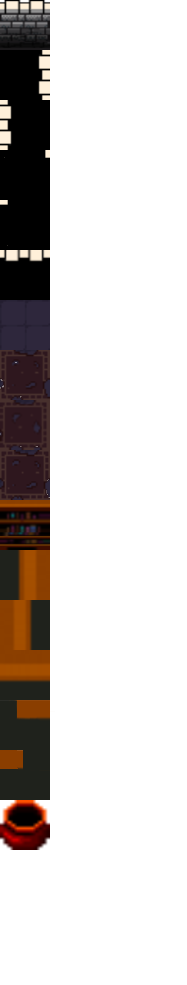
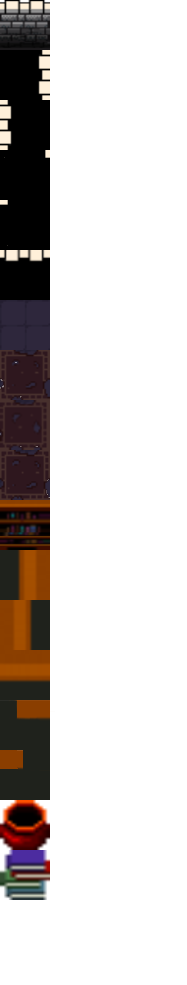
맵툴 오브젝트 말고 제작완료 -> 랜덤맵 생성 시작 예정

Changed region(s): [[0.0, 0.8528, 0.2674, 0.9137]]

diff --git a/Enter the Gungeon/InteractionObject.cpp b/Enter the Gungeon/InteractionObject.cpp
@@ -1,0 +1,87 @@
+#include "stdafx.h"
+#include "InteractionObject.h"
+
+InteractionObject::InteractionObject(MapObjectType type, const std::string& textureId, const std::string& n) :type(type), SpriteGo(textureId, n)
+{
+}
+
+InteractionObject::~InteractionObject()
+{
+}
+
+void InteractionObject::Init()
+{
+	switch (type)
+	{
+	case MapObjectType::None:
+		break;
+	case MapObjectType::WallTop:
+		break;
+	case MapObjectType::WallRight:
+		break;
+	case MapObjectType::WallLeft:
+		break;
+	case MapObjectType::WallCornerRight:
+		break;
+	case MapObjectType::WallCornerLeft:
+		break;
+	case MapObjectType::WallDown:
+		break;
+	case MapObjectType::NormalFloor1:
+		break;
+	case MapObjectType::NormalFloor2:
+		break;
+	case MapObjectType::NormalFloor3:
+		break;
+	case MapObjectType::NormalFloor4:
+		break;
+	case MapObjectType::LibraryTop:
+		break;
+	case MapObjectType::LibraryLeft:
+		break;
+	case MapObjectType::LibraryRight:
+		break;
+	case MapObjectType::LibraryDown:
+		break;
+	case MapObjectType::LibraryCornerLeft:
+		break;
+	case MapObjectType::LibraryCornerRight:
+		break;
+	case MapObjectType::Pot:
+		animation.AddClip(*RESOURCE_MGR.GetAnimationClip("Animations/Objects/Pot.csv"));
+		animation.AddClip(*RESOURCE_MGR.GetAnimationClip("Animations/Objects/PotBreak.csv"));
+		break;
+	case MapObjectType::Book1:
+		animation.AddClip(*RESOURCE_MGR.GetAnimationClip("Animations/Objects/Book1.csv"));
+		animation.AddClip(*RESOURCE_MGR.GetAnimationClip("Animations/Objects/Book1Break.csv"));
+		break;
+	default:
+		break;
+	}
+
+	animation.SetTarget(&sprite);
+	SpriteGo::Init();
+}
+
+void InteractionObject::Reset()
+{
+	SpriteGo::Reset();
+	animation.Play("Idle");
+}
+
+void InteractionObject::Update(float dt)
+{
+	SpriteGo::Update(dt);
+	animation.Update(dt);
+
+	if (INPUT_MGR.GetKeyDown(sf::Keyboard::Num1))
+	{
+		animation.Play("Break");
+	}
+
+}
+
+void InteractionObject::PlayAnimation(MapObjectType type)
+{
+
+}

diff --git a/Enter the Gungeon/Map/TileMap.cpp b/Enter the Gungeon/Map/TileMap.cpp
@@ -1,7 +1,7 @@
 #include "stdafx.h"
 #include "TileMap.h"
 
-TileMap::TileMap(const std::string& textureId, const std::string& n) :VertexArrayGo(textureId, n), scaleFactor({ 0.f,0.f })
+TileMap::TileMap(const std::string& textureId, const std::string& n) :VertexArrayGo(textureId, n)
 {
 	startPos = { 0, 0 };
 }
@@ -29,6 +29,13 @@ bool TileMap::Load(const std::string& filePath, bool textureIdIn)
 			std::string fileInfo = map.GetCell<std::string>(j, i + 4);
 			int texIndex = std::stoi(fileInfo);
 			tile.texIndex = texIndex;
+			size_t commaPos = fileInfo.find(',');
+			if (commaPos != std::string::npos)
+			{
+				std::string numberPart = fileInfo.substr(commaPos + 1);
+				int newTexIndex = std::stoi(numberPart);
+				tile.objectTypes = newTexIndex;
+			}
 			tiles.push_back(tile);
 		}
 	}
@@ -61,8 +68,6 @@ bool TileMap::Load(const std::string& filePath, bool textureIdIn)
 		{ tileSize.x, tileSize.y },
 		{ 0.f, tileSize.y }
 	};
-
-
 
 	for (int i = 0; i < size.y; ++i)
 	{

diff --git a/Enter the Gungeon/Map/Tile.h b/Enter the Gungeon/Map/Tile.h
@@ -1,22 +1,17 @@
 #pragma once
 #include "SpriteGo.h"
 
-struct TileInfo
-{
-	int x = 0;
-	int y = 0;
-	int texIndex = 0;
-	int objectIndex = 0;
-	float positionX;
-	float positionY;
-};
 
-class Tile : public SpriteGo
+class Tile : public SpriteGo 
 {
 protected:
-
+	sf::Vector2i size;
+	sf::Vector2f startPos;
+	std::string fileName;
+	
+	
 public:
-	Tile(const std::string& textureId = "", const std::string& n = "");
+	Tile(const std::string& textureId = "", const std::string& n = "",std::string fileName ="");
 	virtual ~Tile() override;
 
 	virtual void Init() override;
@@ -24,5 +19,8 @@ public:
 	virtual void Reset() override;
 	virtual void Update(float dt) override;
 	virtual void Draw(sf::RenderWindow& window) override;
+
+
+	
 };
 

diff --git a/Enter the Gungeon/Map/TileMap.h b/Enter the Gungeon/Map/TileMap.h
@@ -6,14 +6,16 @@ struct Tile
 	int x = 0;
 	int y = 0;
 	int texIndex = 0;
+	int objectTypes = 0;
 };
 
 class TileMap : public VertexArrayGo
 {
 protected:
-	sf::Vector2f scaleFactor;
+
 	sf::Vector2i size;
 	sf::Vector2f startPos;
+	sf::Vector2f texSize = { 50.f,50.f };
 public:
 	TileMap(const std::string& textureId = "", const std::string& n = "");
 	virtual ~TileMap() override;
@@ -32,6 +34,7 @@ public:
 	void SetStartPos(float x, float y) 
 	{ this->startPos = {x,y}; }
 	sf::Vector2f GetStartPos() { return startPos; }
+	sf::Vector2f GetTileSize() { return texSize; }
 
 	std::vector<Tile> tiles;
 };

diff --git a/Enter the Gungeon/Scenes/GameMapTestScene.h b/Enter the Gungeon/Scenes/GameMapTestScene.h
@@ -2,14 +2,23 @@
 #include "Scene.h"
 
 class TileMap;
+class SpriteGo;
+class InteractionObject;
+
+struct RoomObjectsInfo
+{
+	MapObjectType type;
+	InteractionObject* interactionObj;
+};
+
 class GameMapTestScene :public Scene
 {
 protected:
 	TileMap* tileRoom1;
-	TileMap* objectRoom1;
+	std::vector<SpriteGo*> objects;
+	std::vector<RoomObjectsInfo> interaction;
 
-	TileMap* tileRoom2;
-	TileMap* objectRoom2;
+	sf::RectangleShape shape;
 public:
 	GameMapTestScene();
 	virtual ~GameMapTestScene() override = default;

diff --git a/Enter the Gungeon/InteractionObject.h b/Enter the Gungeon/InteractionObject.h
@@ -1,0 +1,21 @@
+#pragma once
+#include "SpriteGo.h"
+#include "AnimationController.h"
+
+class InteractionObject : public SpriteGo
+{
+protected:
+	AnimationController animation;
+	MapObjectType type;
+	
+public:
+	InteractionObject(MapObjectType type,const std::string& textureId = "", const std::string& n = "");
+	virtual ~InteractionObject() override;
+
+	virtual void Init() override;
+	virtual void Reset() override;
+	virtual void Update(float dt) override;
+	
+	void PlayAnimation(MapObjectType type);
+};
+

diff --git a/Enter the Gungeon/Map/Tile.cpp b/Enter the Gungeon/Map/Tile.cpp
@@ -1,7 +1,8 @@
 #include "stdafx.h"
 #include "Tile.h"
 
-Tile::Tile(const std::string& textureId, const std::string& n):SpriteGo(textureId,n)
+
+Tile::Tile(const std::string& textureId, const std::string& n,std::string name):SpriteGo(textureId,n), fileName(name)
 {
 }
 
@@ -12,6 +13,16 @@ Tile::~Tile()
 void Tile::Init()
 {
 	SpriteGo::Init();
+	if (fileName == "")
+	{
+		std::cout << "NotFile";
+
+		return;
+	}
+	else
+	{
+		
+	}
 }
 
 void Tile::Release()
